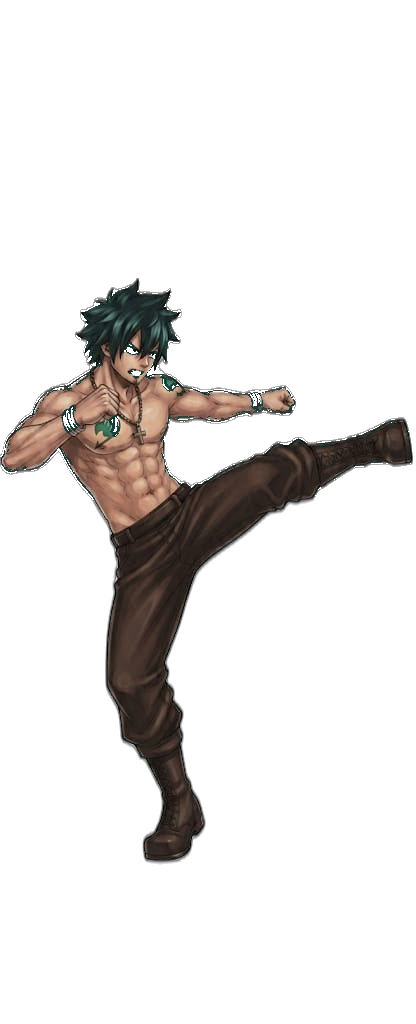
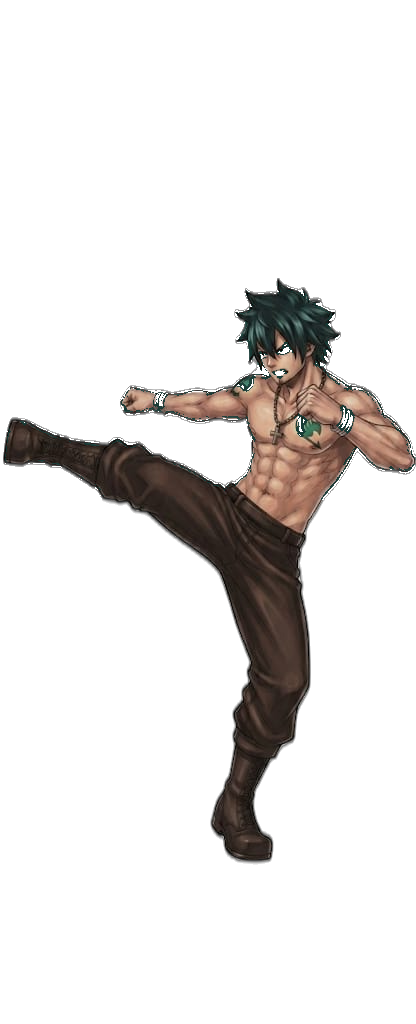
fix: flip male-kick sprite forward, restore female white top, enlarge portrait cards, boost kick lunge distance

Changed region(s): [[0.0, 0.25, 1.0, 0.8438]]

diff --git a/index.html b/index.html
@@ -283,13 +283,13 @@ html, body {
   100% { transform: scale(1) translateX(0) translateY(0) rotate(0deg); transform-origin: bottom center; }
 }
 
-/* Kick Attack — 4-phase: balance preparation -> martial arts leg thrust -> impact freeze-frame -> grounded landing */
+/* Kick Attack — forward flying kick lunge toward monster, matching punch range */
 @keyframes kickAttack {
   0%   { transform: scale(1) translateX(0) translateY(0) rotate(0deg); transform-origin: bottom center; }
-  18%  { transform: scale(0.98) translateX(-18px) translateY(6px) rotate(-3deg); transform-origin: bottom center; }
-  44%  { transform: scale(1.18) translateX(clamp(150px, 34vw, 420px)) translateY(-20px) rotate(5deg); transform-origin: bottom center; }
-  58%  { transform: scale(1.2) translateX(clamp(160px, 36vw, 435px)) translateY(-16px) rotate(6deg); transform-origin: bottom center; }
-  76%  { transform: scale(1.05) translateX(clamp(70px, 14vw, 160px)) translateY(-4px) rotate(2deg); transform-origin: bottom center; }
+  15%  { transform: scale(0.97) translateX(-22px) translateY(8px) rotate(-4deg); transform-origin: bottom center; }
+  42%  { transform: scale(1.18) translateX(clamp(165px, 37vw, 445px)) translateY(-28px) rotate(10deg); transform-origin: bottom center; }
+  56%  { transform: scale(1.2) translateX(clamp(175px, 39vw, 460px)) translateY(-24px) rotate(12deg); transform-origin: bottom center; }
+  75%  { transform: scale(1.05) translateX(clamp(80px, 16vw, 180px)) translateY(-6px) rotate(4deg); transform-origin: bottom center; }
   100% { transform: scale(1) translateX(0) translateY(0) rotate(0deg); transform-origin: bottom center; }
 }
 
@@ -3095,19 +3095,23 @@ input:focus-visible,
 
 .char-choice-img-wrap {
   width: 100%;
-  height: clamp(130px, 22vh, 190px);
+  height: clamp(180px, 30vh, 260px);
   display: flex;
-  align-items: center;
+  align-items: flex-end;
   justify-content: center;
   margin-bottom: var(--space-sm);
   position: relative;
+  overflow: hidden;
+  background: #ffffff;
+  border-radius: 8px 8px 0 0;
 }
 
 .char-choice-img-wrap img {
-  max-width: 100%;
+  max-width: 90%;
   max-height: 100%;
   object-fit: contain;
-  filter: drop-shadow(0 6px 14px rgba(0, 0, 0, 0.7));
+  object-position: bottom center;
+  filter: drop-shadow(0 4px 10px rgba(0, 0, 0, 0.4));
   transition: transform 0.3s ease;
 }
 
